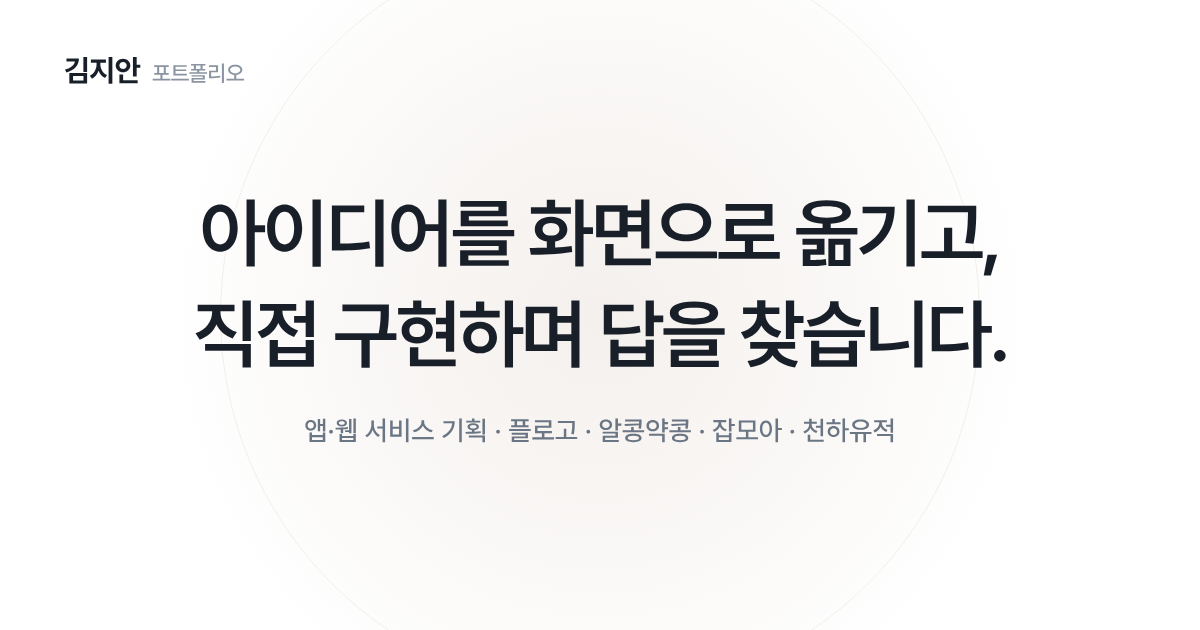
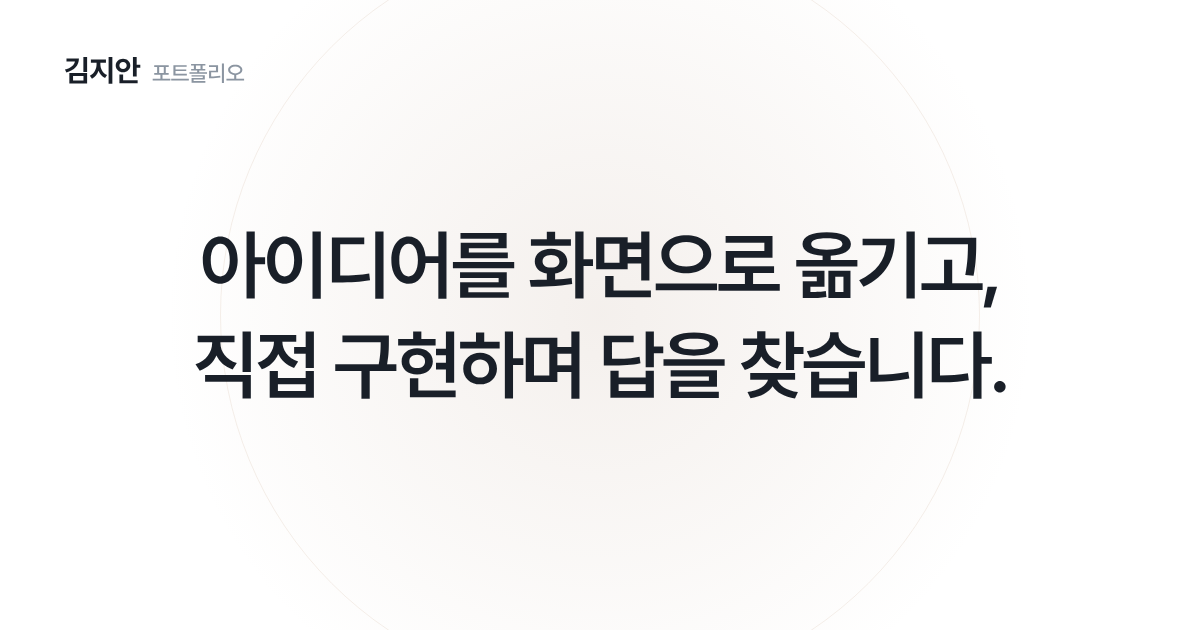
링크 미리보기 이미지에서 하단 서비스 문구 삭제
Claude-Session: https://claude.ai/code/session_01HCL6tbAhQdMwpYaw4GDtUK

Changed region(s): [[0.1542, 0.3016, 0.8325, 0.6333], [0.2467, 0.6635, 0.74, 0.7238]]

diff --git a/index.html b/index.html
@@ -1,7 +1,7 @@
 <!DOCTYPE html>
 <meta charset="utf-8">
 <title>김지안 포트폴리오</title>
-<meta name="description" content="아이디어를 화면으로 옮기고, 직접 구현하며 답을 찾습니다. 앱·웹 서비스 기획 포트폴리오 (플로고 · 알콩약콩 · 잡모아 · 천하유적)">
+<meta name="description" content="아이디어를 화면으로 옮기고, 직접 구현하며 답을 찾습니다.">
 <meta property="og:type" content="website">
 <meta property="og:site_name" content="김지안 포트폴리오">
 <meta property="og:title" content="김지안 포트폴리오">
